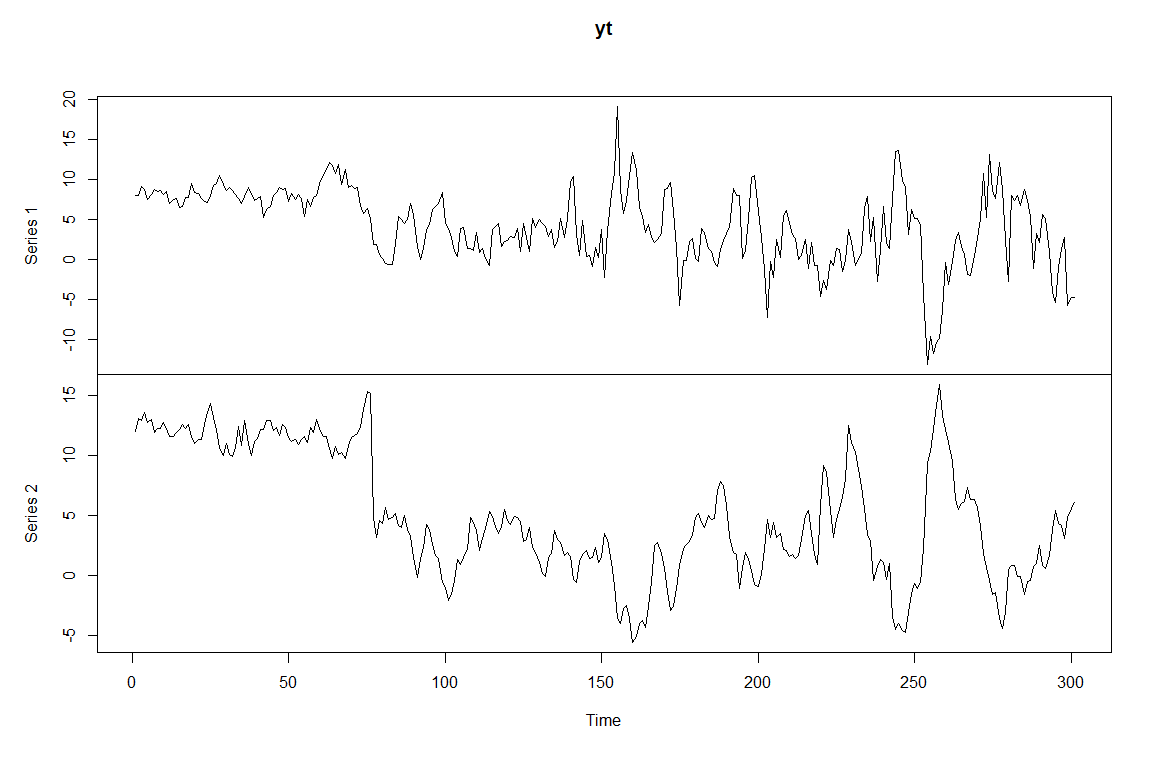
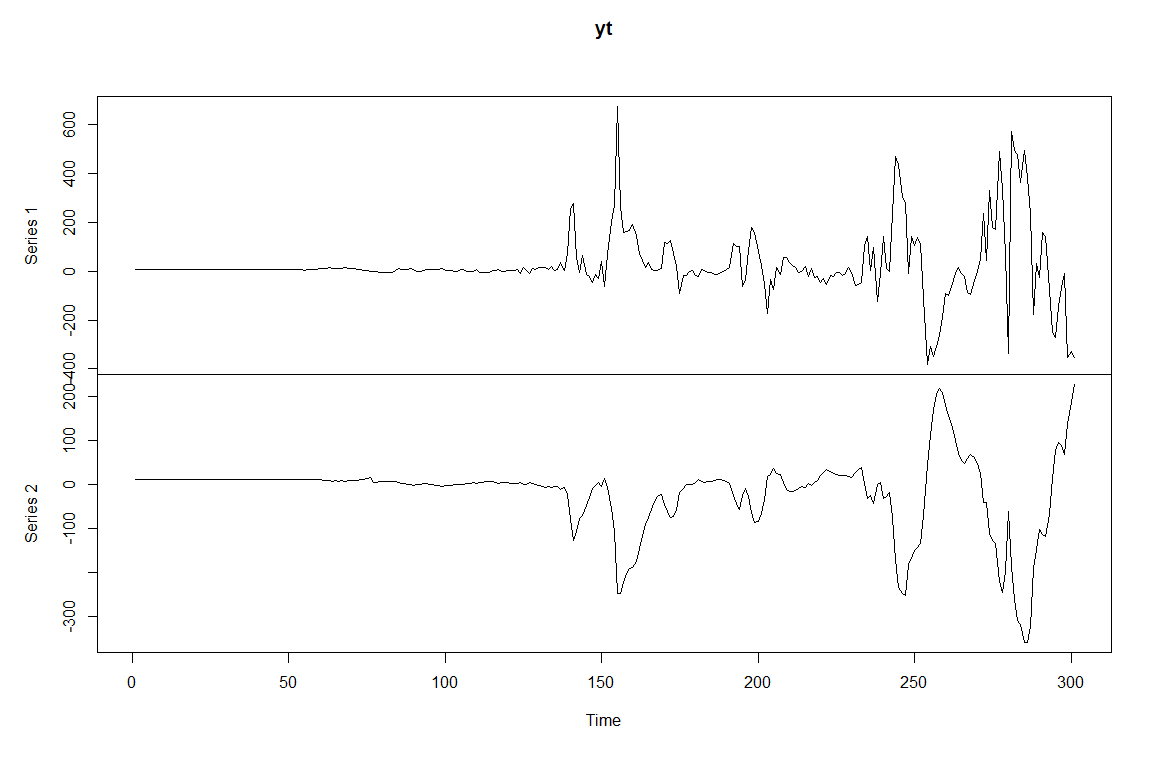
newstuff

diff --git a/README.md b/README.md
@@ -1532,7 +1532,8 @@ $$
                          -0.20 & 0.70 \end{bmatrix} \\
 A &= \begin{bmatrix} 1 & 0 \\
                          0.25 & 1 \end{bmatrix} \\
-\phi &= \begin{pmatrix}0.04 \\ 0.08 \end{pmatrix}\\
+\phi &= \begin{pmatrix}0.04
+\\ 0.08 \end{pmatrix}\\
 \end{aligned}                         
 $$
 
@@ -1542,7 +1543,9 @@ and as such we specify some arbitrary initial conditions $\lambda_0$
 
 $$
 \begin{aligned}
-\ln \lambda_{0} &=  \begin{pmatrix} -0.4 \\ -0.6\end{pmatrix}\\
+\ln \lambda_{0} &=  \begin{pmatrix} -0.4 \\
+-0.6
+\end{pmatrix}\\
 d_{t}' &=
 \begin{cases}
 \begin{pmatrix}1 & 1\end{pmatrix} & \text{if } t \le 75 \\
@@ -1566,10 +1569,10 @@ Pi_1 <- matrix(c( 0.80, 0.15,
 A <- matrix(c(1.00, 0.00,
               0.25, 1.00), 2, 2, byrow = TRUE)
 
-phi <- c(0.04, 0.08)
+phi <- c(0.6, 0.3)
 
 log_lambda <- matrix(NA, N, 2)
-log_lambda[1,] <- c(-0.4,-0.6) #ln lambda_t=0
+log_lambda[1,] <- c(-2,-3) #ln lambda_t=0
 
 dummy <- c(rep(1,76), rep(0,N-76))
 d <- cbind(rep(1, N), dummy)
